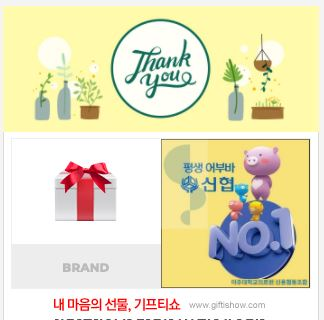
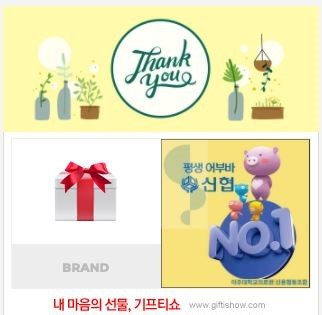
img ch

diff --git a/styles.css b/styles.css
@@ -47,6 +47,21 @@ div {
     color:black;
     margin-bottom: 5px;
 }
+.coupon {
+    background-color:ivory;
+    border-radius: 20px;
+    border: 5px solid goldenrod;
+    padding: 15px;
+    box-shadow: cornflowerblue;
+    text-align: left;
+    opacity: 0.8;
+    height: 550px;
+    width: 640px;
+    font-size:35px;
+    font-family: 'Segoe UI', Tahoma, Geneva, Verdana, sans-serif;
+    font-weight: 700;
+    color:black;
+    margin-bottom: 5px;
 .channel {
     background-color:gold;
     border-radius: 30px;
@@ -61,6 +76,18 @@ div {
 }
 .card {
     background-color:darkcyan;
+    border-radius: 30px;
+    opacity: 0.8;
+    height: 90px;
+    width: 650px;
+    font-size:35px;
+    font-family: 'Segoe UI', Tahoma, Geneva, Verdana, sans-serif;
+    color:black;
+    font-weight: 700;
+    margin-bottom: 5px;
+}
+.cardcoupon {
+    background-color:goldenrod;
     border-radius: 30px;
     opacity: 0.8;
     height: 90px;

diff --git a/cupon.html b/cupon.html
@@ -8,7 +8,7 @@
 </head>
 <body>
     <img src="img/coupon.JPG"><br/>
-    <div class="mile">
+    <div class="coupon">
        ▣모바일 쿠폰 사용확인 (재전송)등 안내▣ <br/><br/>
        ○ 유효기간: 발행일로부터 1개월 (이후 사용 또는 환불 불가)<br/>
          <span>○ 상품권형 모바일쿠폰(세븐일레븐 정액권 등)은 분할 사용 가능<br/>
@@ -18,7 +18,7 @@
     </div>
     <br/>
     <div>
-        <div class="card">    
+        <div class="cardcoupon">    
             <a href="https://m.giftishow.com/myzone/selfStep1.mhows?ch=arsvoc"> 모바일 쿠폰 고객센타 바로가기 <i class="fas fa-chevron-right fa-lg"></i></a>
             </div>
         <br/><br/>   
